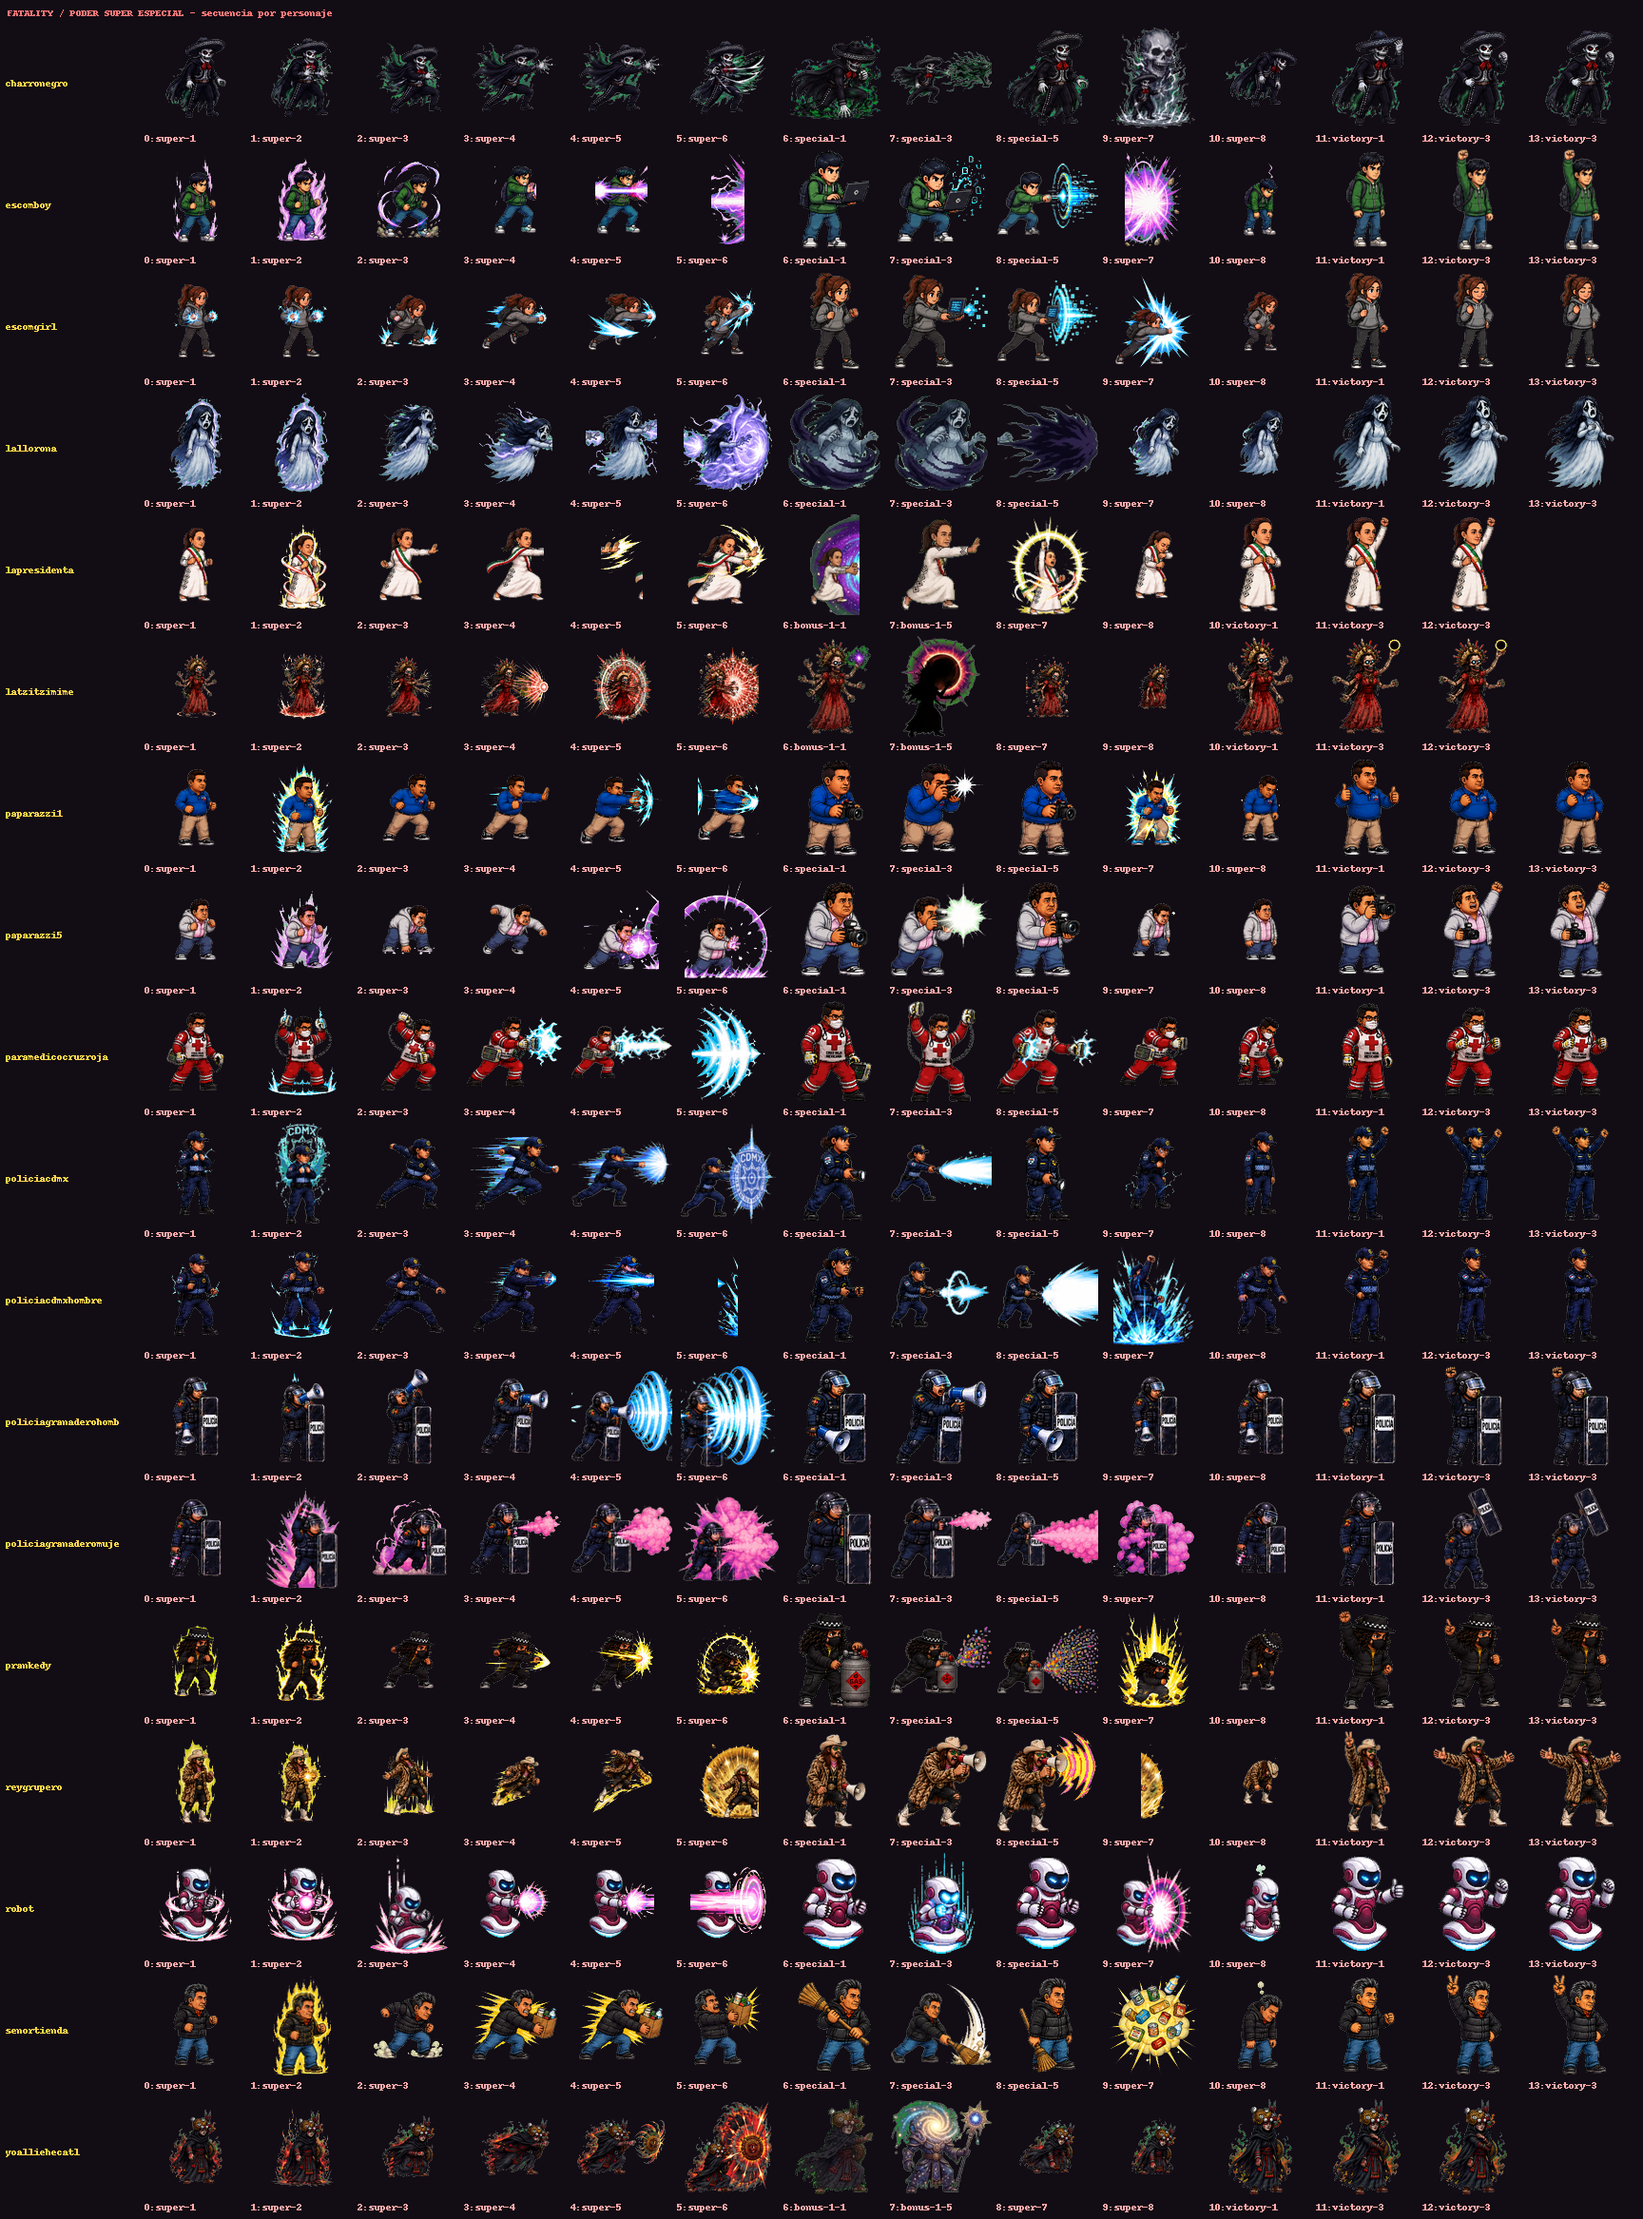
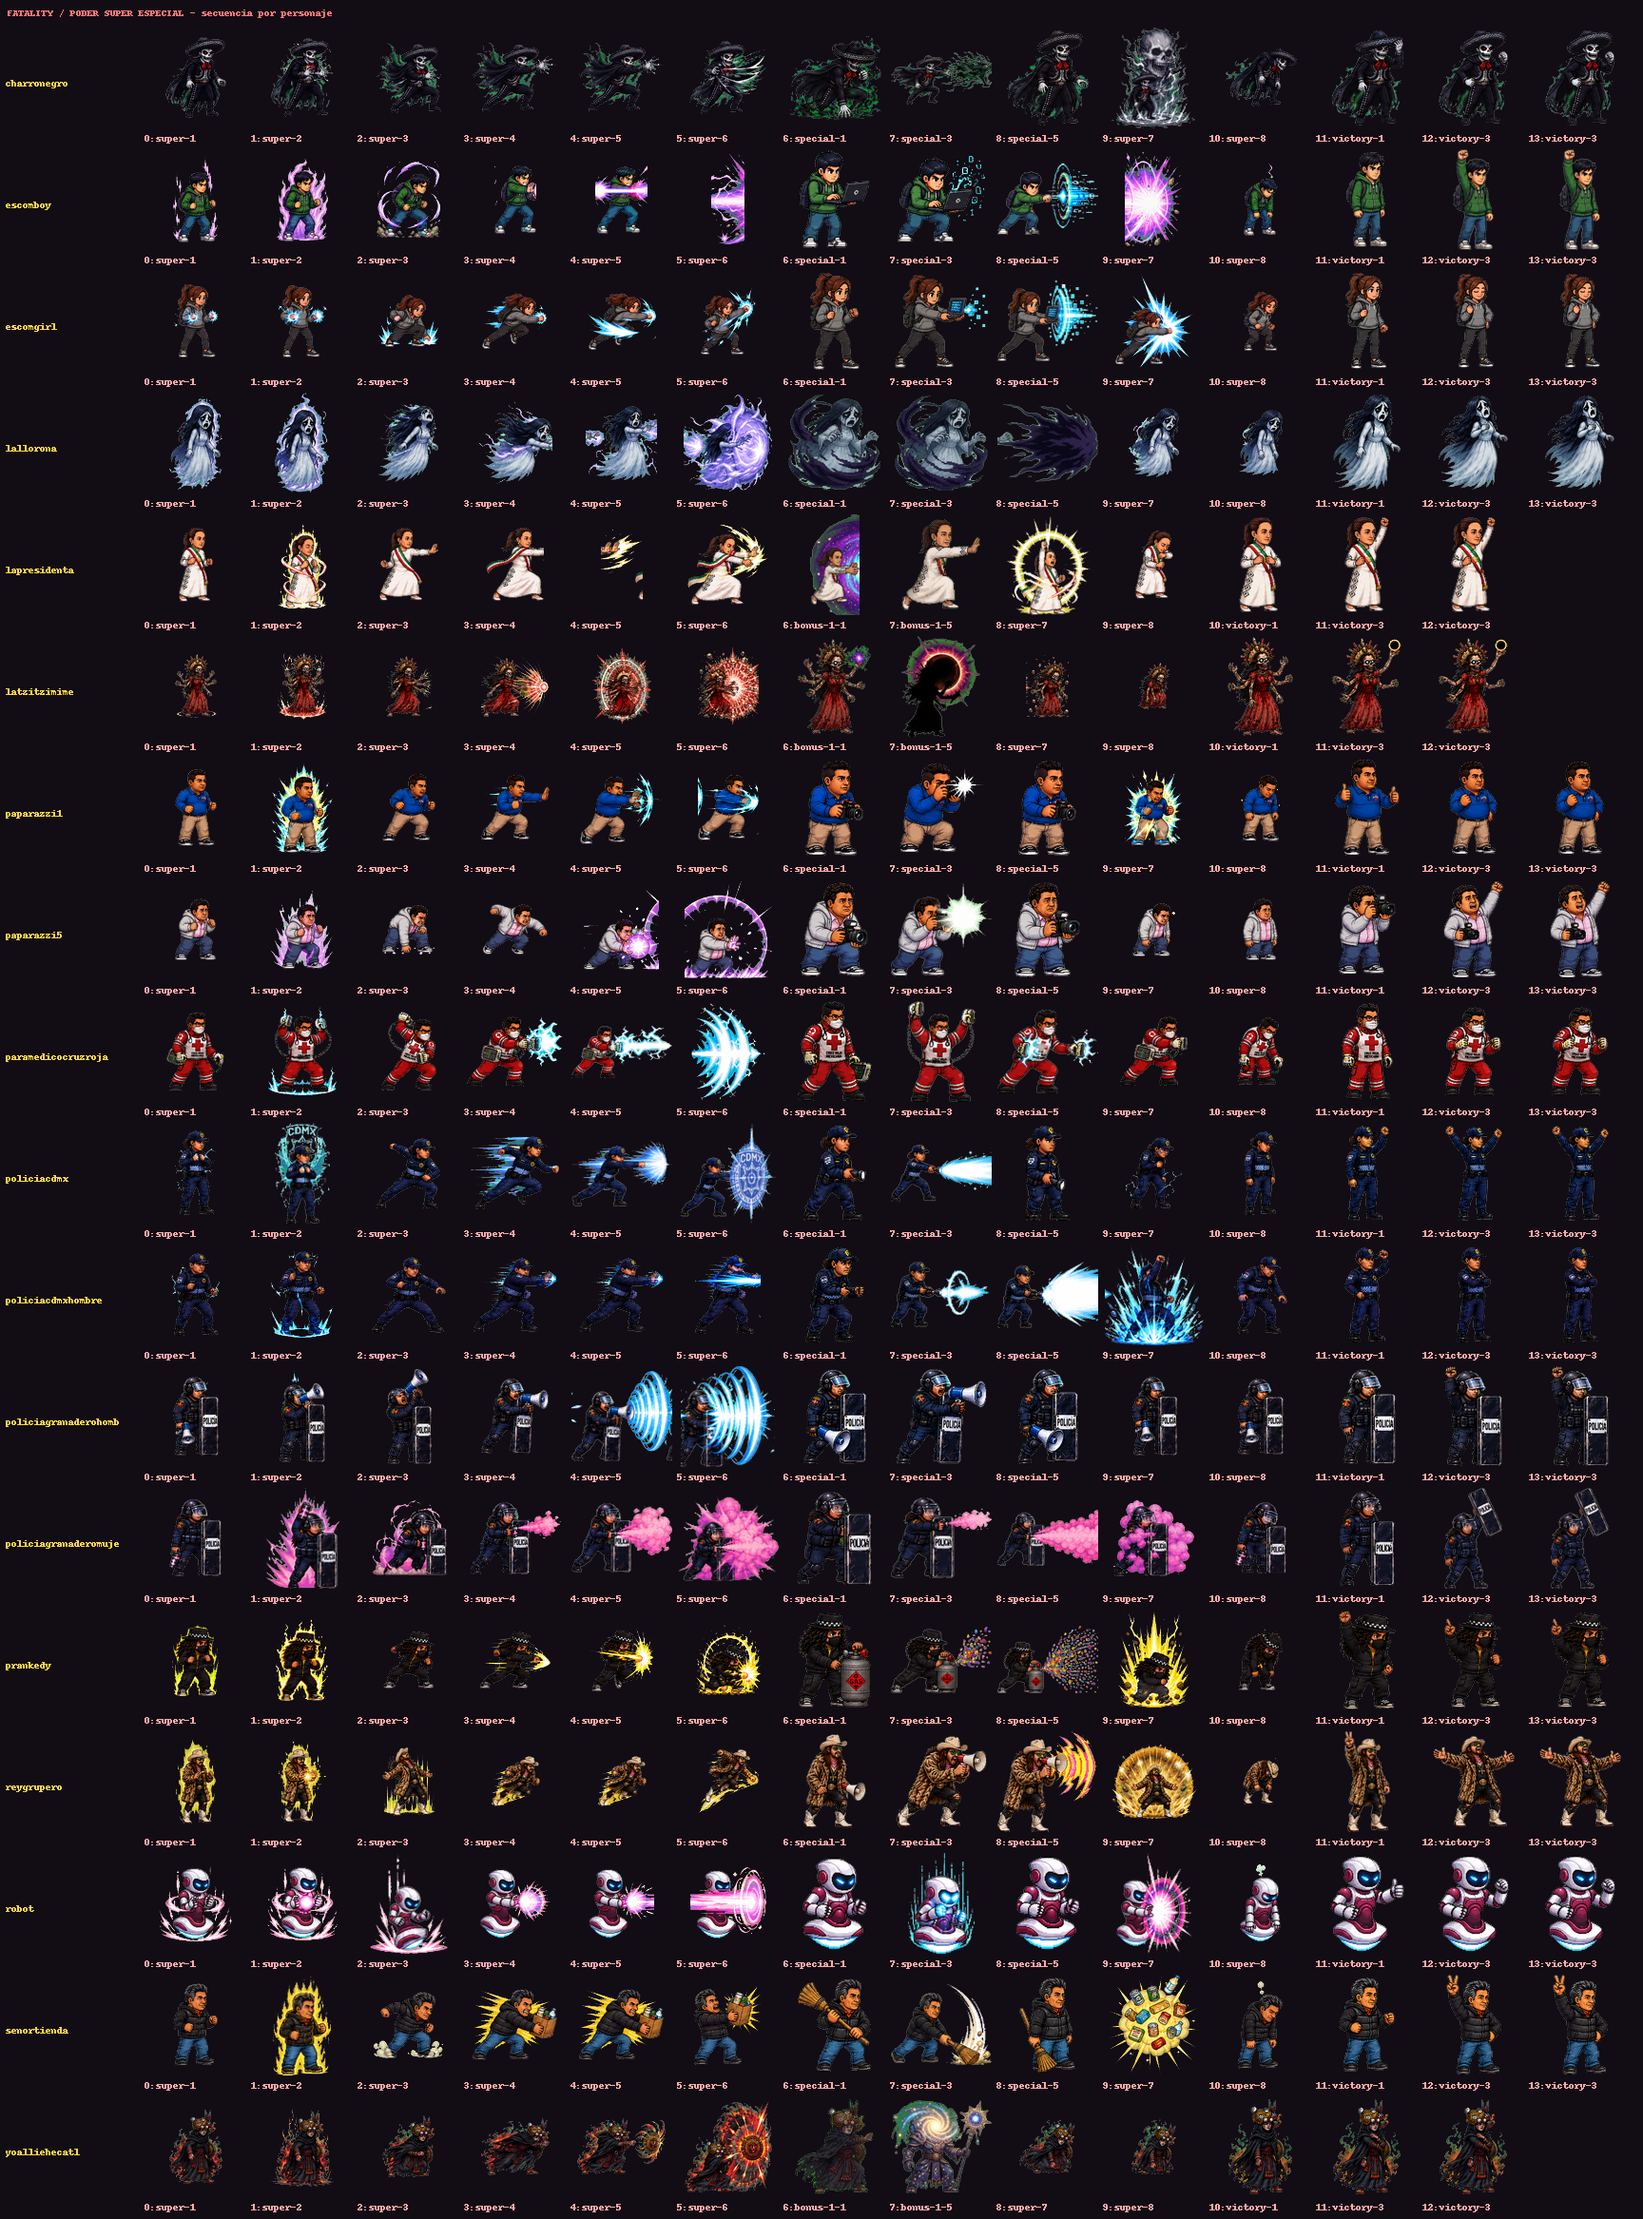
UNE las poses que el slicer partia en dos (reygrupero, policiacdmxhombre)
Correccion de enfoque del dueno: en estos casos el arreglo NO era partir mejor sino NO PARTIR. La fila SUPER ART trae 7 poses, no 8, pero maybe_split estaba obligado a llegar a 8 y troceaba la pose ancha (el estallido del super) en dos mitades.

SHEET_OVERRIDES ahora declara SUPER ART=7 para reygrupero y policiacdmxhombre. Verificado a ojo en un directorio temporal ANTES de tocar la staging: reygrupero super-7 vuelve a ser el circulo dorado entero y policiacdmxhombre super-6 el haz azul completo.

paparazzi5 se probo igual y NO lleva override: con 7 sale PEOR, el cuadro queda con dos personajes. Su fila si trae las 8 poses. Queda PENDIENTE en la hoja de estado.

diff --git a/PolitecnicoOpenWorld/tools/sf_audit_status_sheet.py b/PolitecnicoOpenWorld/tools/sf_audit_status_sheet.py
@@ -51,18 +51,19 @@ REPORTES = [
     ("latzitzimime", ["bonus-4-5"], "CORREGIDO", "bonusPower4 = solo este cuadro"),
     ("latzitzimime", ["bonus-5-4", "bonus-5-5"], "CORREGIDO", "bonusPower5 = solo estos dos"),
     ("latzitzimime", ["bonus-3-1"], "CORREGIDO", "bonusPower3 ELIMINADO (era arte de Yoalli)"),
-    # ── C2 aplicado: el corte ahora busca un hueco REAL antes de inventarlo ──
-    ("policiacdmxhombre", ["super-4", "super-5", "super-6", "super-7"], "CORREGIDO",
-     "C2 aplicado: 4 cuadros re-recortados"),
+    # ── UNIDOS: la pose era UNA y el slicer la partia en dos. SUPER ART = 7, no 8 ──
     ("reygrupero", ["super-6", "super-7"], "CORREGIDO",
-     "C2 aplicado: re-recortados los 2"),
-    # ── C2 NO les cambio nada: no hay hueco real entre las poses ──
+     "UNIDOS: super-7 ya es el circulo dorado entero"),
+    ("policiacdmxhombre", ["super-5", "super-6", "super-7"], "CORREGIDO",
+     "UNIDOS: super-6 ya trae el haz azul completo"),
+    # ── Siguen mal: ni partir mejor ni unir los arregla ──
     ("lallorona", ["super-4", "super-5", "super-6"], "PENDIENTE",
-     "C2 no basto: sin hueco, la hoja 29 los trae PEGADOS"),
+     "sin hueco entre poses; unir no aplica (son 3 distintas)"),
     ("lapresidenta", ["super-4", "super-5"], "PENDIENTE",
-     "C2 no basto: sin hueco entre poses"),
-    ("paparazzi1", ["super-6"], "PENDIENTE", "C2 no basto: falta recorte DERECHA"),
-    ("paparazzi5", ["super-6"], "PENDIENTE", "C2 no basto: falta recorte ANTES"),
+     "sin hueco entre poses"),
+    ("paparazzi1", ["super-6"], "PENDIENTE", "falta recorte DERECHA; sin hueco"),
+    ("paparazzi5", ["super-6"], "PENDIENTE",
+     "unir se PROBO y sale PEOR (2 personajes en 1 cuadro)"),
     ("paramedicocruzroja", ["special-4", "super-6"], "REVISAR",
      "super-6 es onda pura; encimar con el anterior"),
     # ── C3: el poder se sale del lienzo por la derecha. PENDIENTE ──

diff --git a/PolitecnicoOpenWorld/tools/slice_sf_chroma_sheets.py b/PolitecnicoOpenWorld/tools/slice_sf_chroma_sheets.py
@@ -154,6 +154,14 @@ SHEETS = {
 # persigue 14 blobs y trocea cada figura en rebanadas verticales (11/14 en vez de 3/3).
 SHEET_OVERRIDES = {
     ("lallorona", 9): {"HURT HEAD": 3},
+    # 🆕 (2026-07-21) SUPER ART con 7 poses, no 8. El dueno lo detecto a ojo: "super-6 y
+    # super-7 completan UN solo asset". La fila trae una pose ANCHA (el estallido del
+    # super) y maybe_split, obligado a llegar a 8, la parte en dos mitades. Declarando 7
+    # se queda entera. `pick` sigue rellenando los 8 destinos repitiendo una (one_short_ok).
+    ("reygrupero", 29): {"SUPER ART": 7},
+    ("policiacdmxhombre", 29): {"SUPER ART": 7},
+    # ⚠ paparazzi5 NO lleva override: se probo con 7 y sale PEOR (junta dos poses
+    # distintas y el cuadro queda con DOS personajes). Su fila si trae las 8 poses.
 }
 
 def detect(path, close=5):
